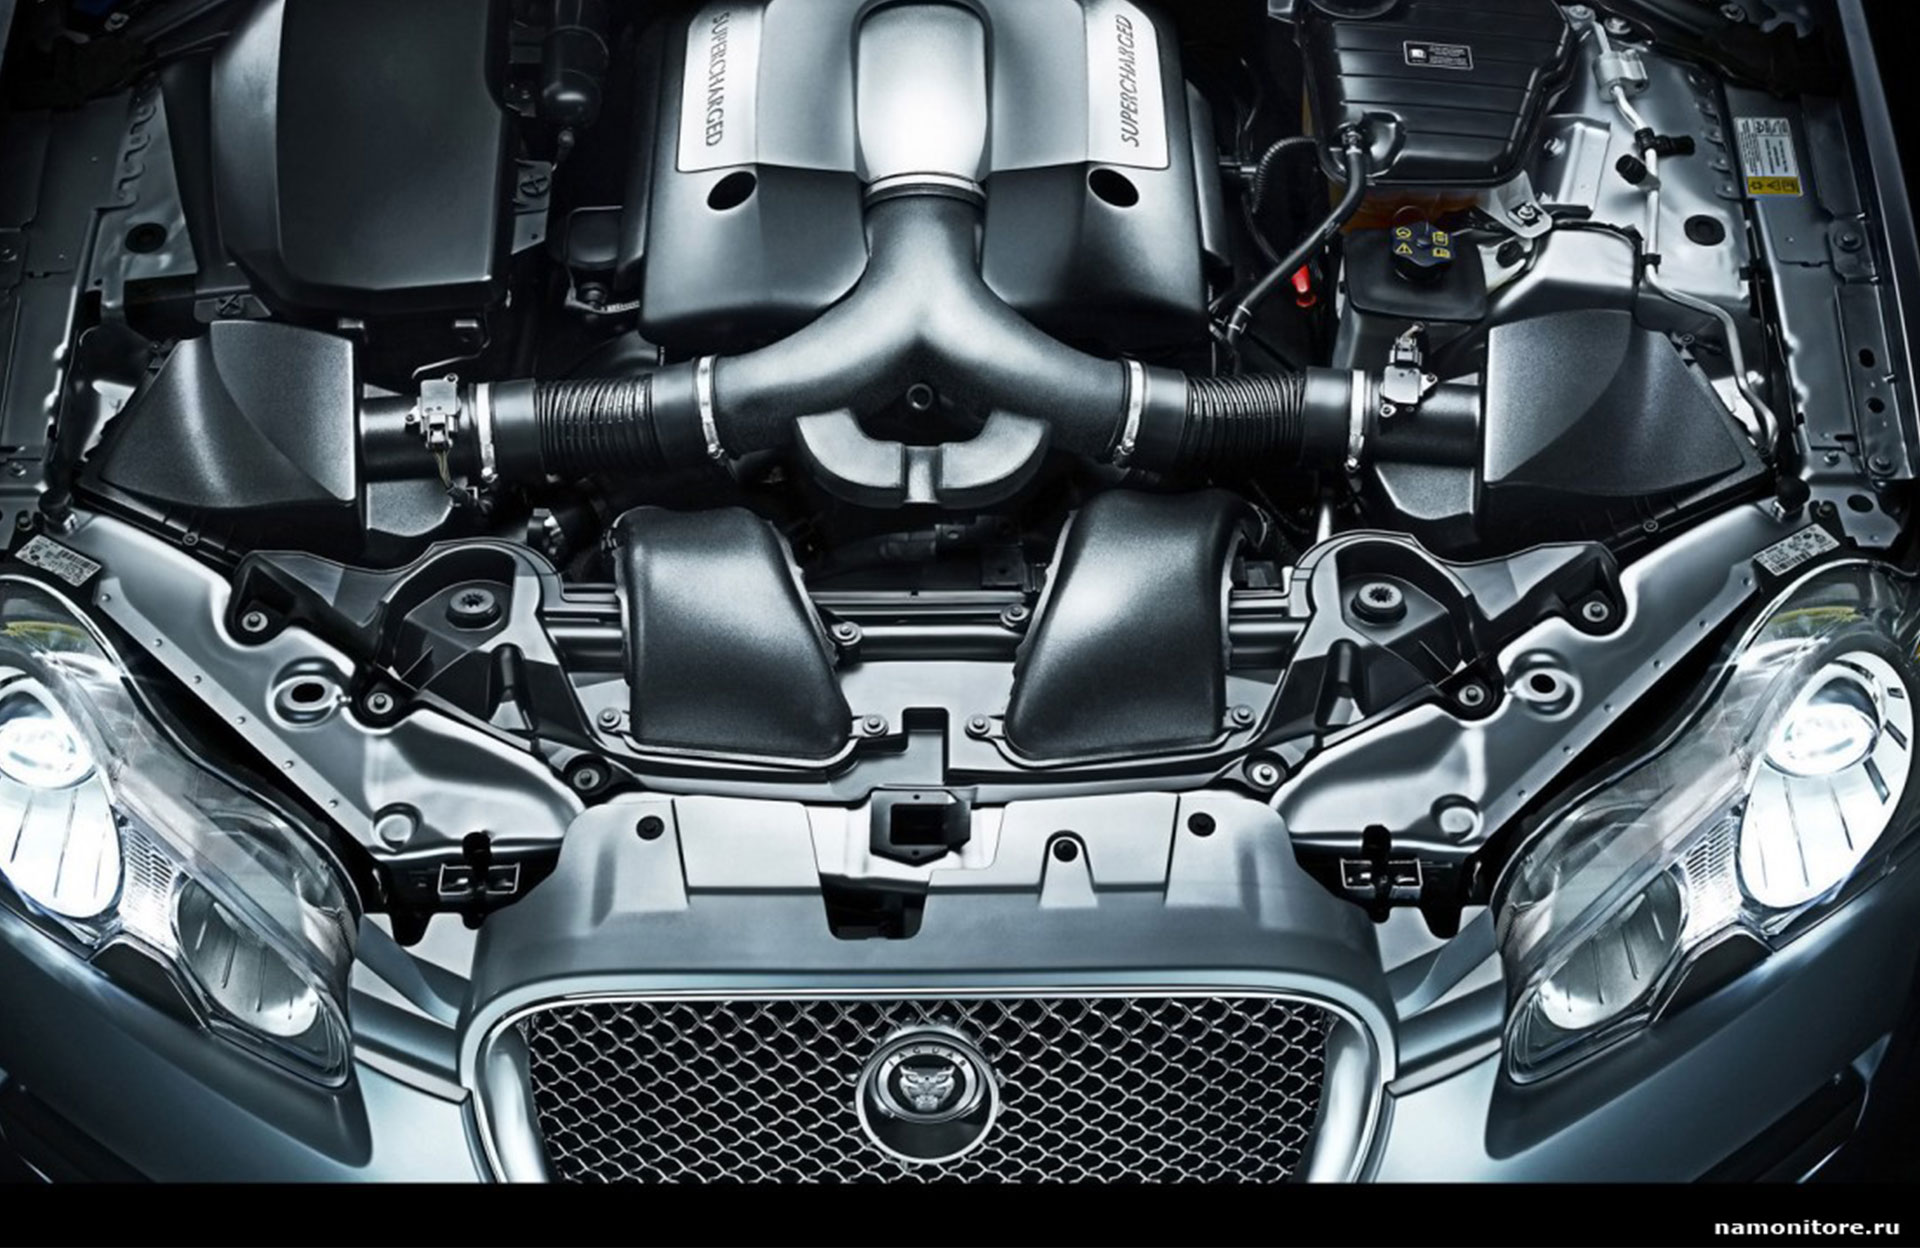
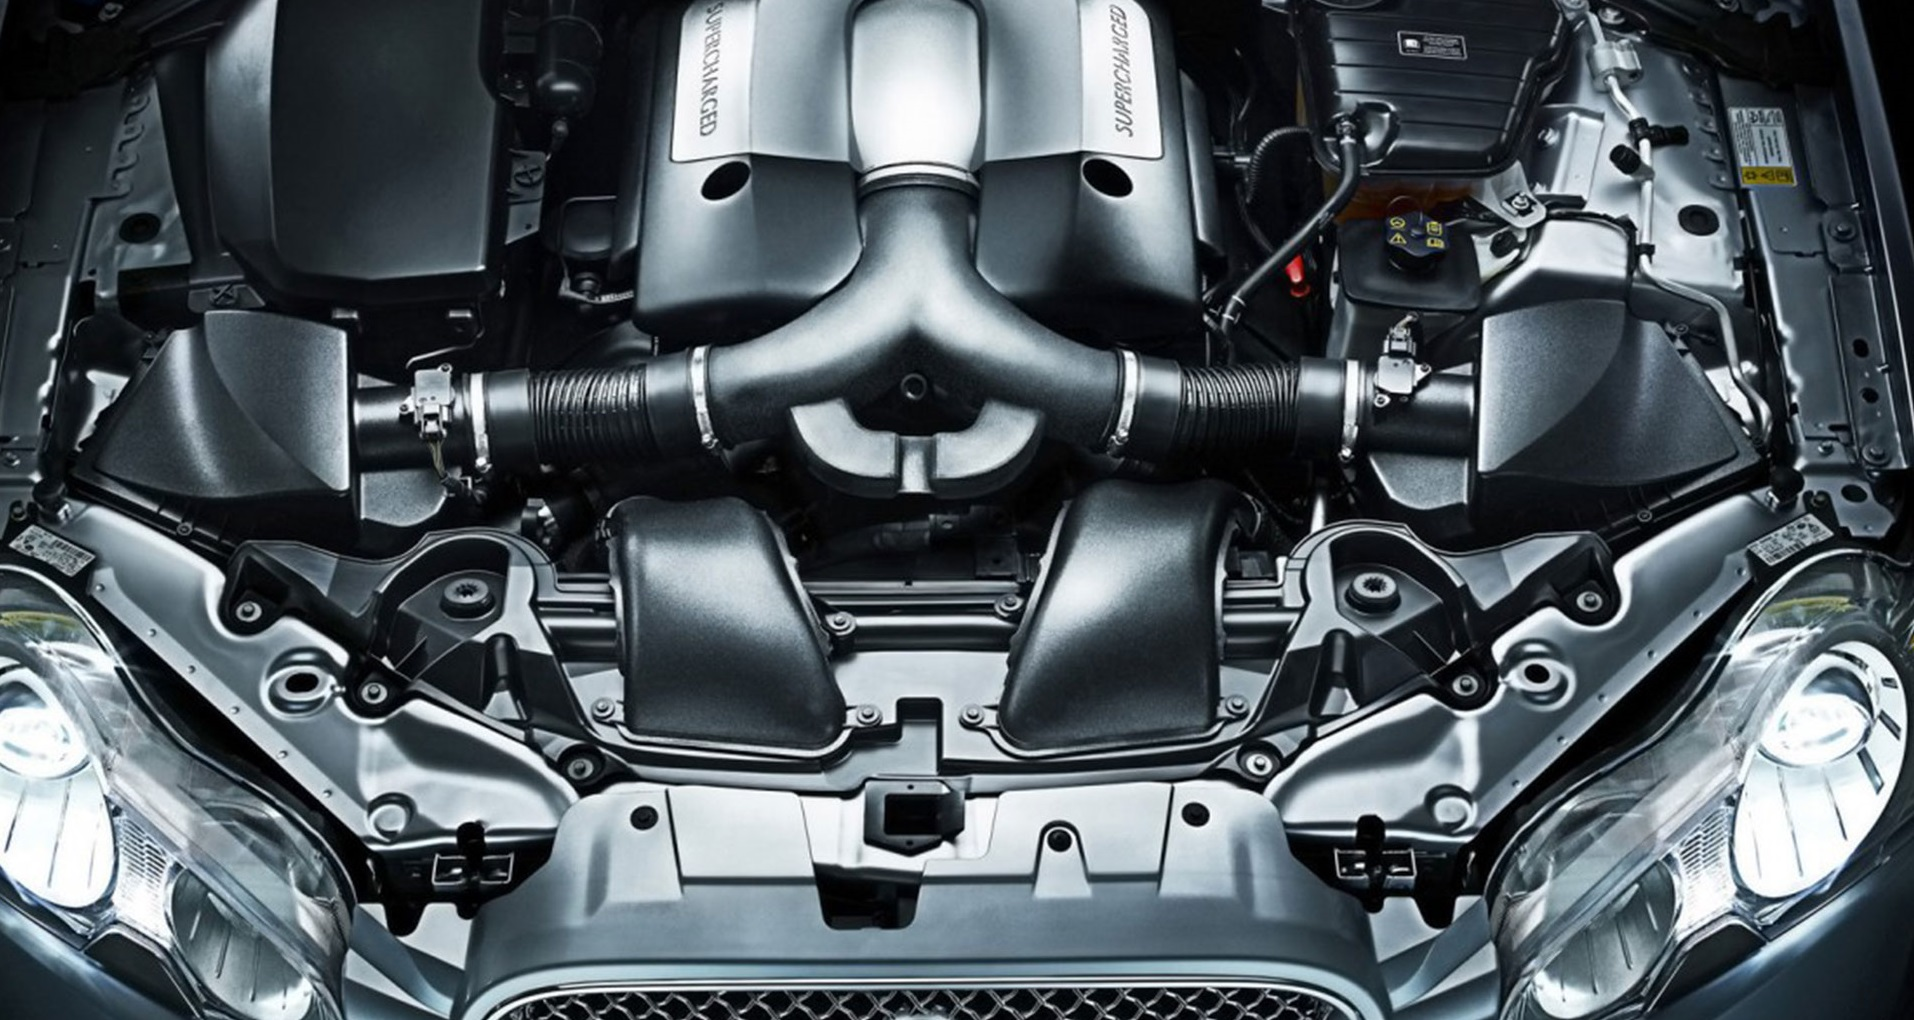
#2

diff --git a/css/style.css b/css/style.css
@@ -1,11 +1,55 @@
-.top-image-engine{
+.top-engine, .middle-engine{
     position: relative;
 }
-.top-image-engine img{
+.top-engine .h{
+    position: absolute;
+    color: white;
+    top: calc(5vw);
+    left: calc(10vw);
+}
+.top-engine .h h1{
+    font-size: 3em;
+    text-align: center;
+}
+
+.top-engine .h span{
+    display: block;
+    padding-top: 10px;
+    text-transform: uppercase;
+    font-size: 12px;
+    text-align: center;
+    line-height: 1.5em;
+}
+
+.top-engine .h form input[type='text']{
+    border: 1px solid white;
+    border-radius: 10px;
+    height: 30px;
+    background-color: transparent;
+    display: block;
+    margin-bottom: 10px;
+    margin-top: 20px;
+    color: white;
+    text-align: center;
+    width: 270px;
+}
+
+.top-engine .h form input[type='submit']{
+    width: 240px;
+    height: 35px;
+    background-color: #4c9432;
+    border: none;
+    color: white;
+    display: block;
+    margin: auto;
+}
+
+.top-engine img, .middle-engine img{
     width: 100%;
+    filter: brightness(50%);
 }
 #triangle {
-    border: 420px solid transparent;
+    border: 200px solid transparent;
     border-bottom: 0px solid transparent;
     border-left: 0px solid transparent;
     border-right: solid rgb(255, 255, 255);
@@ -13,6 +57,7 @@
     bottom: 0;
     right: 0;
     border-right-width: calc(100vw);
+    height: calc(20vh);
 }
 .text-block{
     position: absolute;
@@ -21,4 +66,40 @@
     font-size: 35px;
     text-align: right;
     font-weight: bold;
+}
+.engine{
+    position: relative;
+    padding-top: 20vh;
+    margin: auto;
+    width: 50%;
+    padding-bottom: calc(10vw);
+}
+
+#triangle-top{
+    border: 200px solid transparent;
+    border-top: 0px solid transparent;
+    border-right: 0px solid transparent;
+    border-left: solid rgb(255, 255, 255);
+    position: absolute;
+    border-left-width: calc(100vw);
+}
+
+#triangle-bottom{
+    border: 200px solid transparent;
+    border-bottom: 0px solid transparent;
+    border-left: 0px solid transparent;
+    border-right: solid rgb(255, 255, 255);
+    position: absolute;
+    bottom: 0;
+    right: 0;
+    border-right-width: calc(100vw);
+}
+
+.middle-engine .text{
+position: absolute;
+    top: 40%;
+    color: white;
+    margin-left: calc(10vw);
+    line-height: 1.4em;
+    font-size: 20px;
 }
